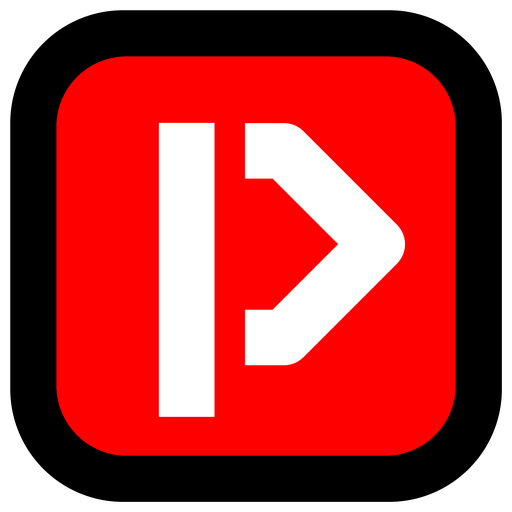
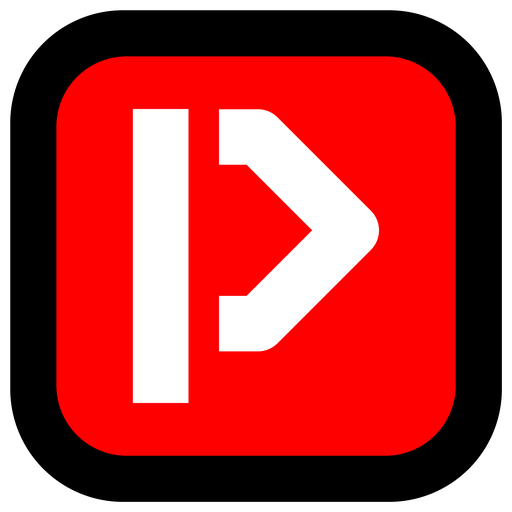
Center the I> launcher mark in the red field.
Keep the current I-taller, top-aligned chevron, and place the combined
bounding box so left/right and top/bottom pads match. Bump the APK to 1.0.13.

Changed region(s): [[0.25, 0.1875, 0.8125, 0.8125]]

diff --git a/src/components/iptv/iptv-app.tsx b/src/components/iptv/iptv-app.tsx
@@ -161,12 +161,12 @@ export function IptvApp() {
       <header className="flex items-center gap-3 border-b border-white/10 px-4 py-2.5">
         <span className="flex size-8 items-center justify-center rounded-md bg-red-600 shadow-[0_0_20px_color-mix(in_oklch,red_40%,transparent)]">
           <svg viewBox="0 0 32 32" className="size-5" aria-hidden>
-            <rect x="6.2" y="5.4" width="3.4" height="21.2" fill="white" />
+            <rect x="5.01" y="2.88" width="4.96" height="26.24" fill="white" />
             <path
-              d="M12.5 7.3h2.4L22.8 16.2 14.9 25h-2.4"
+              d="M12.7 5.36h3.47L24.51 13.7 16.17 22.04H12.7"
               fill="none"
               stroke="white"
-              strokeWidth="3.4"
+              strokeWidth="4.96"
               strokeLinejoin="round"
               strokeLinecap="butt"
             />

diff --git a/src/lib/apk.ts b/src/lib/apk.ts
@@ -1,3 +1,3 @@
 /** Keep in sync with android-tv/app/build.gradle.kts versionName. */
-export const APP_VERSION = "1.0.12"
+export const APP_VERSION = "1.0.13"
 export const APK_FILENAME = `iptv-client.v${APP_VERSION}.apk`

diff --git a/scripts/generate-icons.py b/scripts/generate-icons.py
@@ -7,7 +7,6 @@ white > with short horizontal terminals. White marks have no outline.
 
 from __future__ import annotations
 
-import math
 import sys
 from pathlib import Path
 
@@ -71,36 +70,16 @@ def _scale(draw: ImageDraw.ImageDraw, factor: int):
     return Scaled()
 
 
-def _thick_line(p1: tuple[float, float], p2: tuple[float, float], width: float) -> list[tuple[float, float]]:
-    dx, dy = p2[0] - p1[0], p2[1] - p1[1]
-    length = math.hypot(dx, dy) or 1.0
-    nx, ny = -dy / length * width / 2, dx / length * width / 2
-    return [
-        (p1[0] + nx, p1[1] + ny),
-        (p1[0] - nx, p1[1] - ny),
-        (p2[0] - nx, p2[1] - ny),
-        (p2[0] + nx, p2[1] + ny),
-    ]
-
-
-def _dot(s, c: tuple[float, float], diameter: float) -> None:
-    r = diameter / 2
-    s.ellipse((c[0] - r, c[1] - r, c[0] + r, c[1] + r), fill=WHITE)
-
-
-def _seg_mass(p1: tuple[float, float], p2: tuple[float, float], width: float) -> tuple[float, float, float]:
-    length = math.hypot(p2[0] - p1[0], p2[1] - p1[1])
-    return length * width, (p1[0] + p2[0]) / 2, (p1[1] + p2[1]) / 2
-
-
-def draw_mark(draw: ImageDraw.ImageDraw, box: tuple[float, float, float, float], factor: int) -> None:
+def draw_mark(canvas: Image.Image, box: tuple[float, float, float, float], factor: int) -> None:
     """White I + short-bar > with curved joins. No dot under >.
 
-    Spacing is the pre-widening gap. > keeps the height it had with the
-    circle. The I+> group is shifted so its visual center sits in the box.
+    I stays taller than >; tops stay aligned. The I+> group is placed by
+    its bounding box so left/right and top/bottom pads in the red field match.
     """
     x0, y0, x1, y1 = box
     w, h = x1 - x0, y1 - y0
+    overlay = Image.new("RGBA", canvas.size, (0, 0, 0, 0))
+    draw = ImageDraw.Draw(overlay)
     s = _scale(draw, factor)
 
     stroke = min(w, h) * 0.155
@@ -108,7 +87,7 @@ def draw_mark(draw: ImageDraw.ImageDraw, box: tuple[float, float, float, float],
     pad_y = h * 0.09
     top = y0 + pad_y
     bot = y1 - pad_y
-    overlap = 4.0
+    overlap = stroke * 0.072
 
     y_upper = top + half
     bar_bot = bot - stroke + overlap
@@ -118,8 +97,7 @@ def draw_mark(draw: ImageDraw.ImageDraw, box: tuple[float, float, float, float],
     gap_i = stroke * 0.55
 
     content_w = stroke + gap_i + stub + run + half
-    left = x0 + (w - content_w) / 2
-    i_left = left
+    i_left = x0 + (w - content_w) / 2
     x_edge = i_left + stroke + gap_i
     p0 = (x_edge, y_upper)
     p1 = (x_edge + stub, y_upper)
@@ -127,26 +105,29 @@ def draw_mark(draw: ImageDraw.ImageDraw, box: tuple[float, float, float, float],
     p3 = (x_edge + stub, y_lower)
     p4 = (x_edge, y_lower)
 
-    masses = [
-        (stroke * (bot - top), i_left + half, (top + bot) / 2),
-        _seg_mass(p0, p1, stroke),
-        _seg_mass(p1, p2, stroke),
-        _seg_mass(p2, p3, stroke),
-        _seg_mass(p3, p4, stroke),
-    ]
-    tw = sum(m[0] for m in masses) or 1.0
-    cx = sum(m[0] * m[1] for m in masses) / tw
-    cy = sum(m[0] * m[2] for m in masses) / tw
-    dx = (x0 + w / 2) - cx
-    dy = (y0 + h / 2) - cy
-
-    s.rectangle((i_left + dx, top + dy, i_left + stroke + dx, bot + dy), fill=WHITE)
+    s.rectangle((i_left, top, i_left + stroke, bot), fill=WHITE)
     pts = [
-        (int(round((p[0] + dx) * factor)), int(round((p[1] + dy) * factor)))
+        (int(round(p[0] * factor)), int(round(p[1] * factor)))
         for p in (p0, p1, p2, p3, p4)
     ]
     width_px = max(5, int(round(stroke * factor)))
     draw.line(pts, fill=WHITE, width=width_px, joint="curve")
+
+    ink = overlay.getbbox()
+    if ink is None:
+        return
+    ix0, iy0, ix1, iy1 = ink
+    box_cx = (x0 + x1) / 2 * factor
+    box_cy = (y0 + y1) / 2 * factor
+    ink_cx = (ix0 + ix1) / 2
+    ink_cy = (iy0 + iy1) / 2
+    dx = int(round(box_cx - ink_cx))
+    dy = int(round(box_cy - ink_cy))
+    if dx or dy:
+        shifted = Image.new("RGBA", canvas.size, (0, 0, 0, 0))
+        shifted.paste(overlay, (dx, dy), overlay)
+        overlay = shifted
+    canvas.alpha_composite(overlay)
 
 
 def launcher(size: int) -> Image.Image:
@@ -168,7 +149,7 @@ def launcher(size: int) -> Image.Image:
     )
     # Keep white marks inside the red field so they never pick up the black frame.
     inset = inner + size * 0.04
-    draw_mark(draw, (inset, inset, size - inset, size - inset), factor)
+    draw_mark(canvas, (inset, inset, size - inset, size - inset), factor)
     return canvas.resize((size, size), Image.Resampling.LANCZOS)
 
 
@@ -176,7 +157,6 @@ def banner(width: int, height: int) -> Image.Image:
     factor = 4
     canvas = Image.new("RGBA", (width * factor, height * factor), BLACK)
     draw = ImageDraw.Draw(canvas)
-    s = _scale(draw, factor)
 
     mark = min(height * 0.72, width * 0.28)
     mx = width * 0.05
@@ -249,13 +229,13 @@ def write_app_assets() -> None:
 def write_preview(dest: Path) -> None:
     dest.mkdir(parents=True, exist_ok=True)
     icon = launcher(512)
-    save(icon, dest / "icon_preview_512.png")
-    save(launcher(192), dest / "icon_preview_192.png")
-    save(banner(640, 360), dest / "tv_banner_preview.png")
+    save(icon, dest / "icon_centered_512.png")
+    save(launcher(192), dest / "icon_centered_192.png")
+    save(banner(640, 360), dest / "tv_banner_centered.png")
     for name, bg in (("on_white", (245, 245, 245, 255)), ("on_black", (11, 11, 13, 255))):
         plate = Image.new("RGBA", (560, 560), bg)
         plate.alpha_composite(icon, (24, 24))
-        save(plate, dest / f"icon_preview_{name}.png")
+        save(plate, dest / f"icon_centered_{name}.png")
 
 
 if __name__ == "__main__":

diff --git a/README.md b/README.md
@@ -33,8 +33,8 @@ npm run apk
 
 生成：
 
-- `release/iptv-client.v<版本号>.apk`（当前为 `iptv-client.v1.0.12.apk`）
-- 开发服务器也可下载： [http://127.0.0.1:43217/iptv-client.v1.0.12.apk](http://127.0.0.1:43217/iptv-client.v1.0.12.apk)
+- `release/iptv-client.v<版本号>.apk`（当前为 `iptv-client.v1.0.13.apk`）
+- 开发服务器也可下载： [http://127.0.0.1:43217/iptv-client.v1.0.13.apk](http://127.0.0.1:43217/iptv-client.v1.0.13.apk)
 
 ### 装到电视上
 
@@ -47,7 +47,7 @@ npm run apk
 
 ### 装到安卓手机
 
-1. 把 `iptv-client.v1.0.12.apk` 发到手机（微信/网盘/数据线）。
+1. 把 `iptv-client.v1.0.13.apk` 发到手机（微信/网盘/数据线）。
 2. 打开文件，允许「安装未知应用」。
 3. 安装完成后在桌面打开 **IPTV Client**。
 4. 竖屏为播放器在上、频道列表在下；横屏与电视相同，左侧列表、右侧画面。
